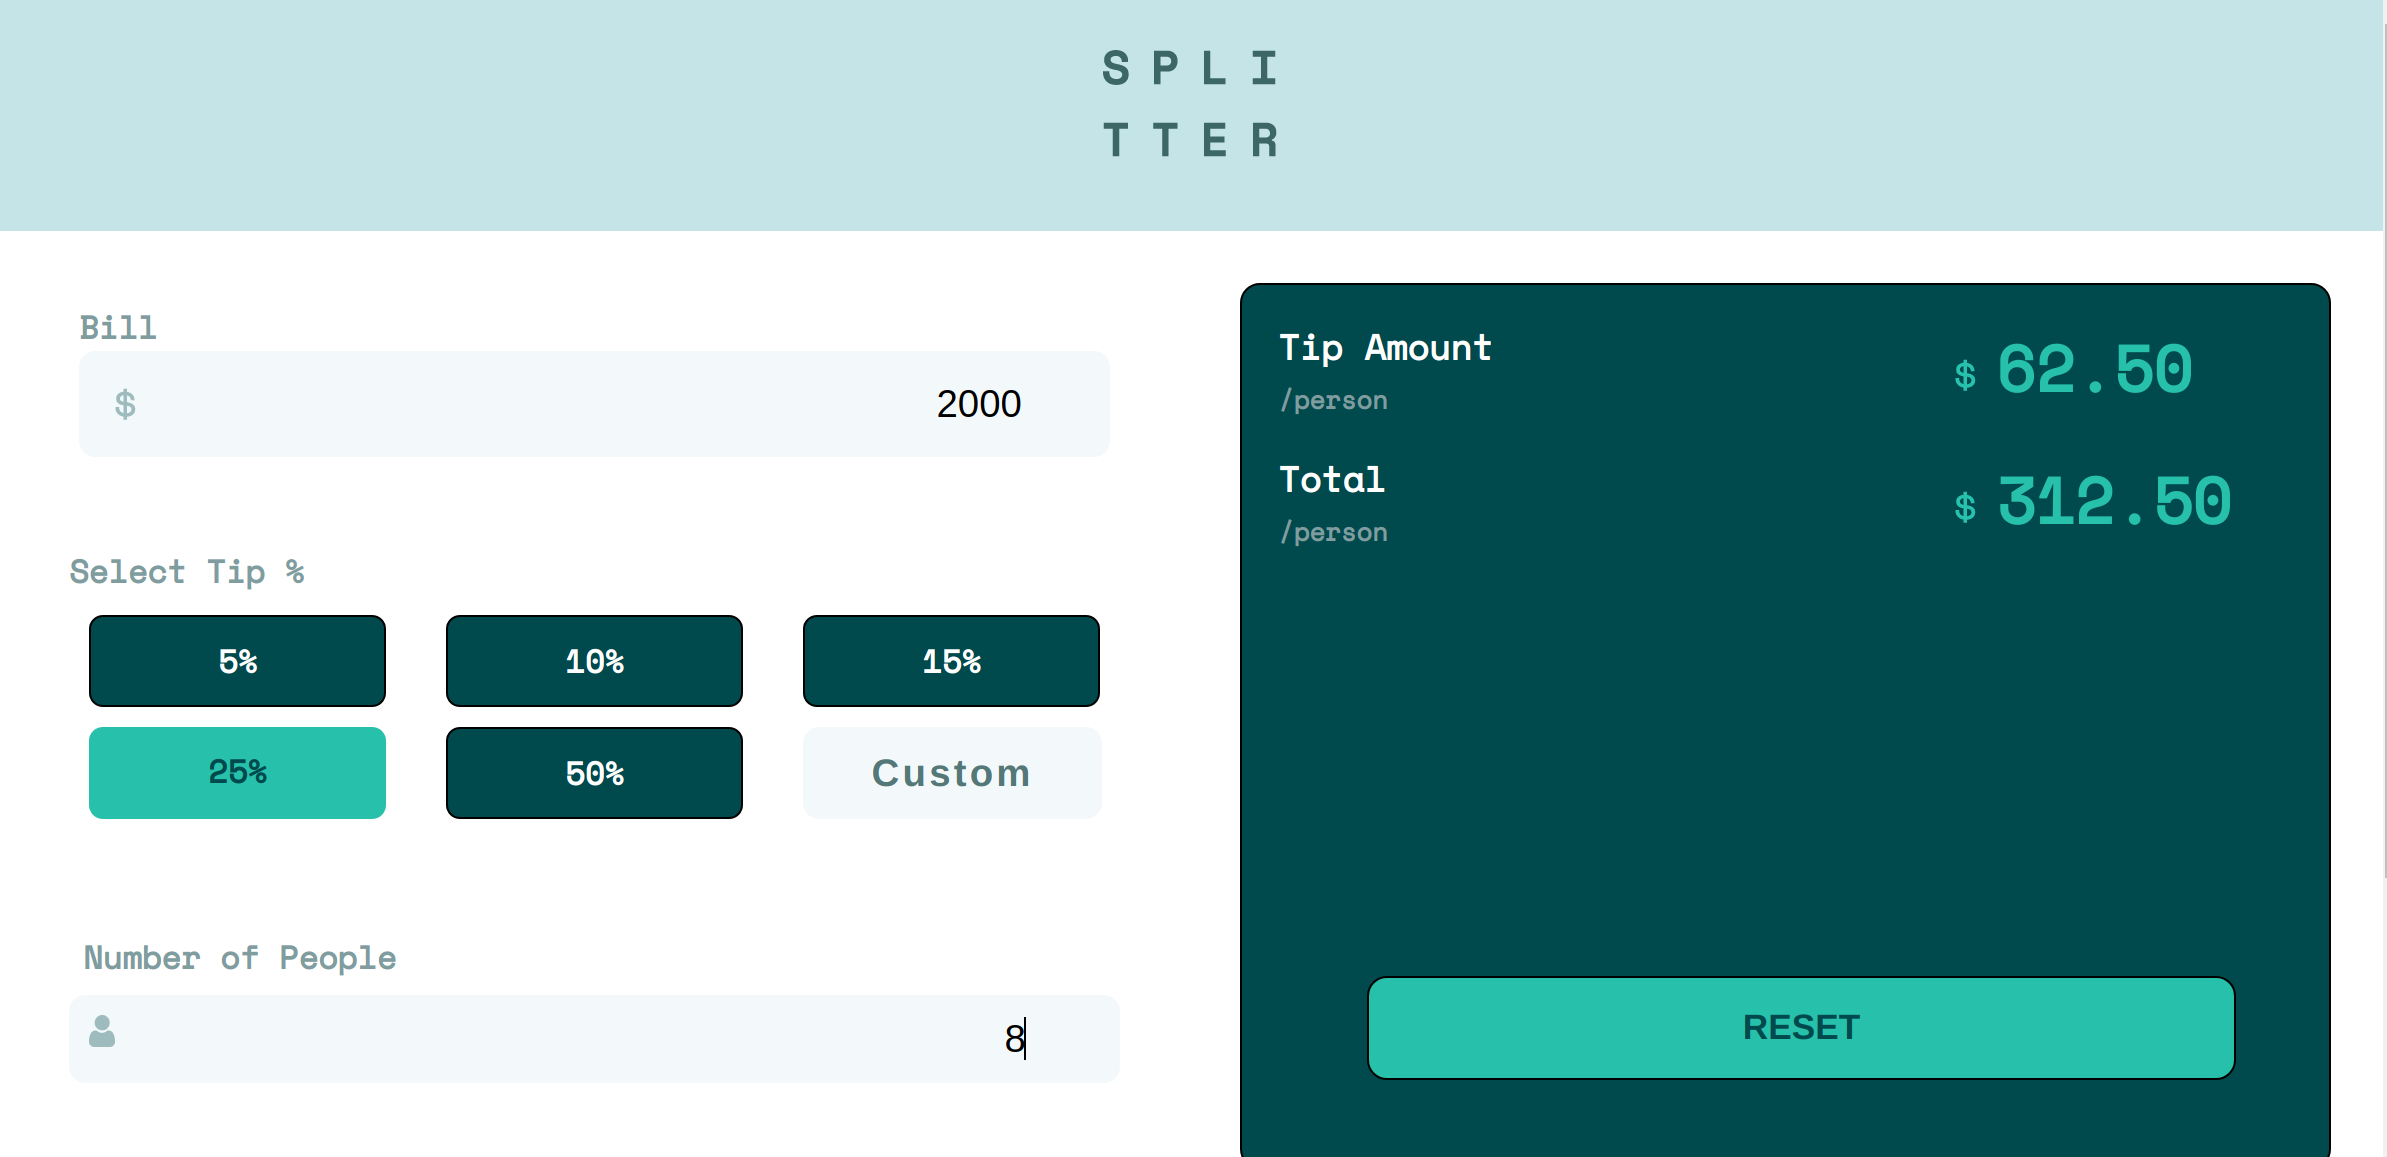
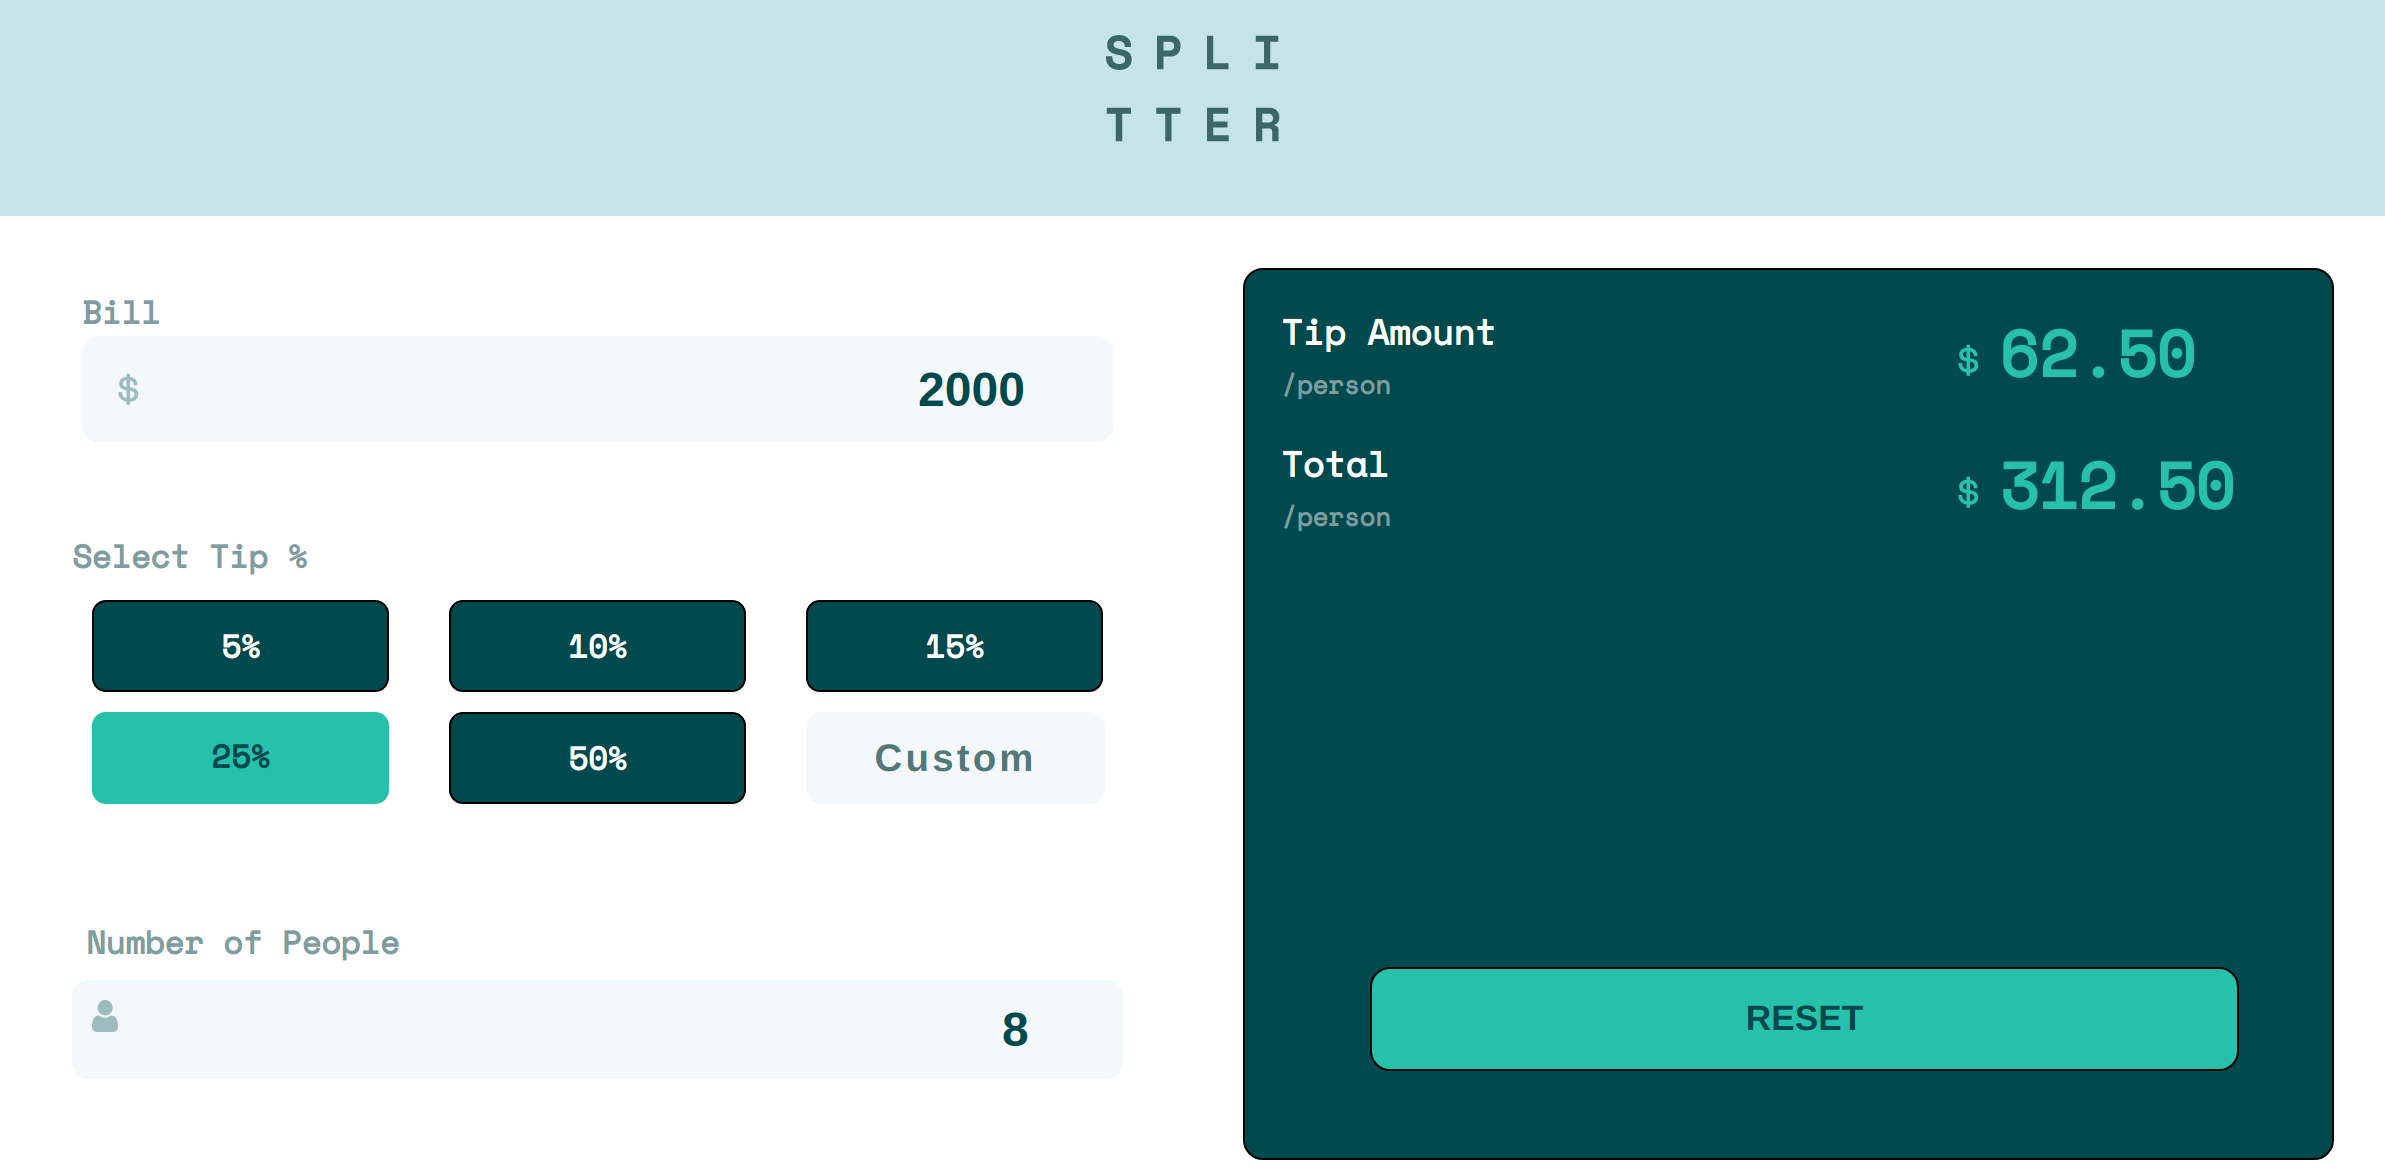
chore : update font-size

diff --git a/css/index.css b/css/index.css
@@ -67,10 +67,13 @@ span.billValue input
     text-align:right;
     font-size:1.2rem;
     cursor: pointer;
+    font-weight:700;
+    color:hsl(183, 100%, 15%);
+    font-size:1.5rem;
 }
 span.billValue input::placeholder
 {
-    font-size:1.2rem;
+    font-size:1.5rem;
 }
 span.title
 {
@@ -188,10 +191,13 @@ div.content input
     text-align:right;
     font-size:1.2rem;
     cursor: pointer;
+    font-weight:700;
+    color:hsl(183, 100%, 15%);
+    font-size:1.5rem;
 }
 div.content input::placeholder
 {
-    font-size:1.2rem;
+    font-size:1.5rem;
 }
 div.tipCalculation
 {
